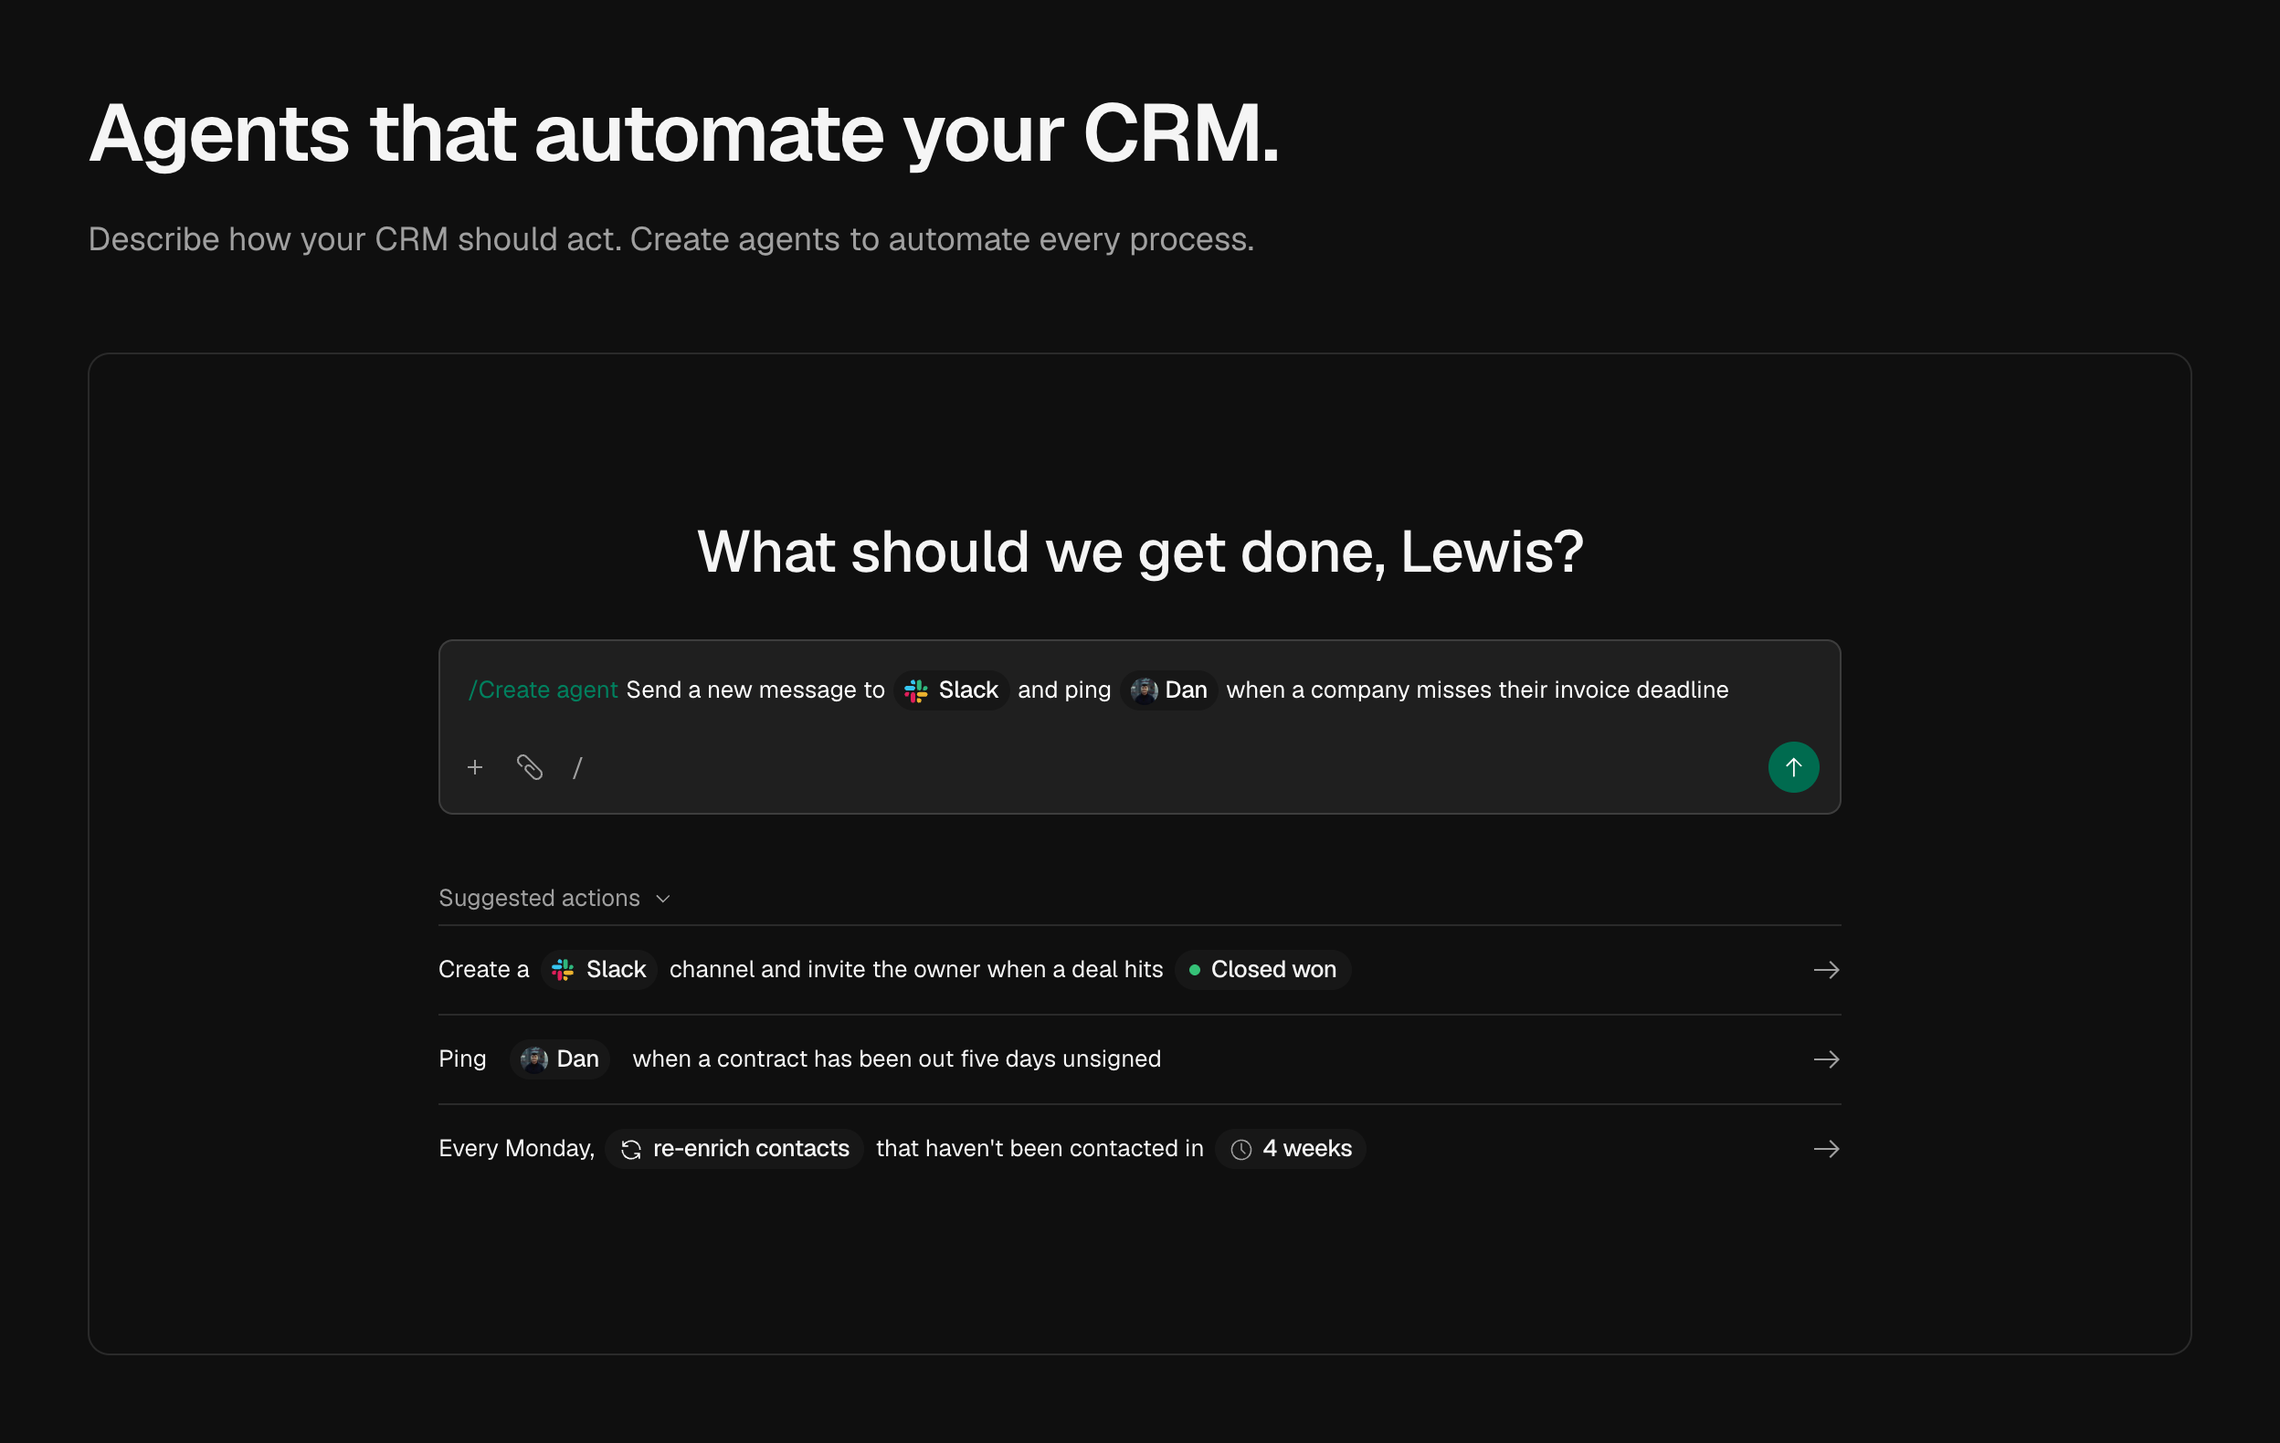
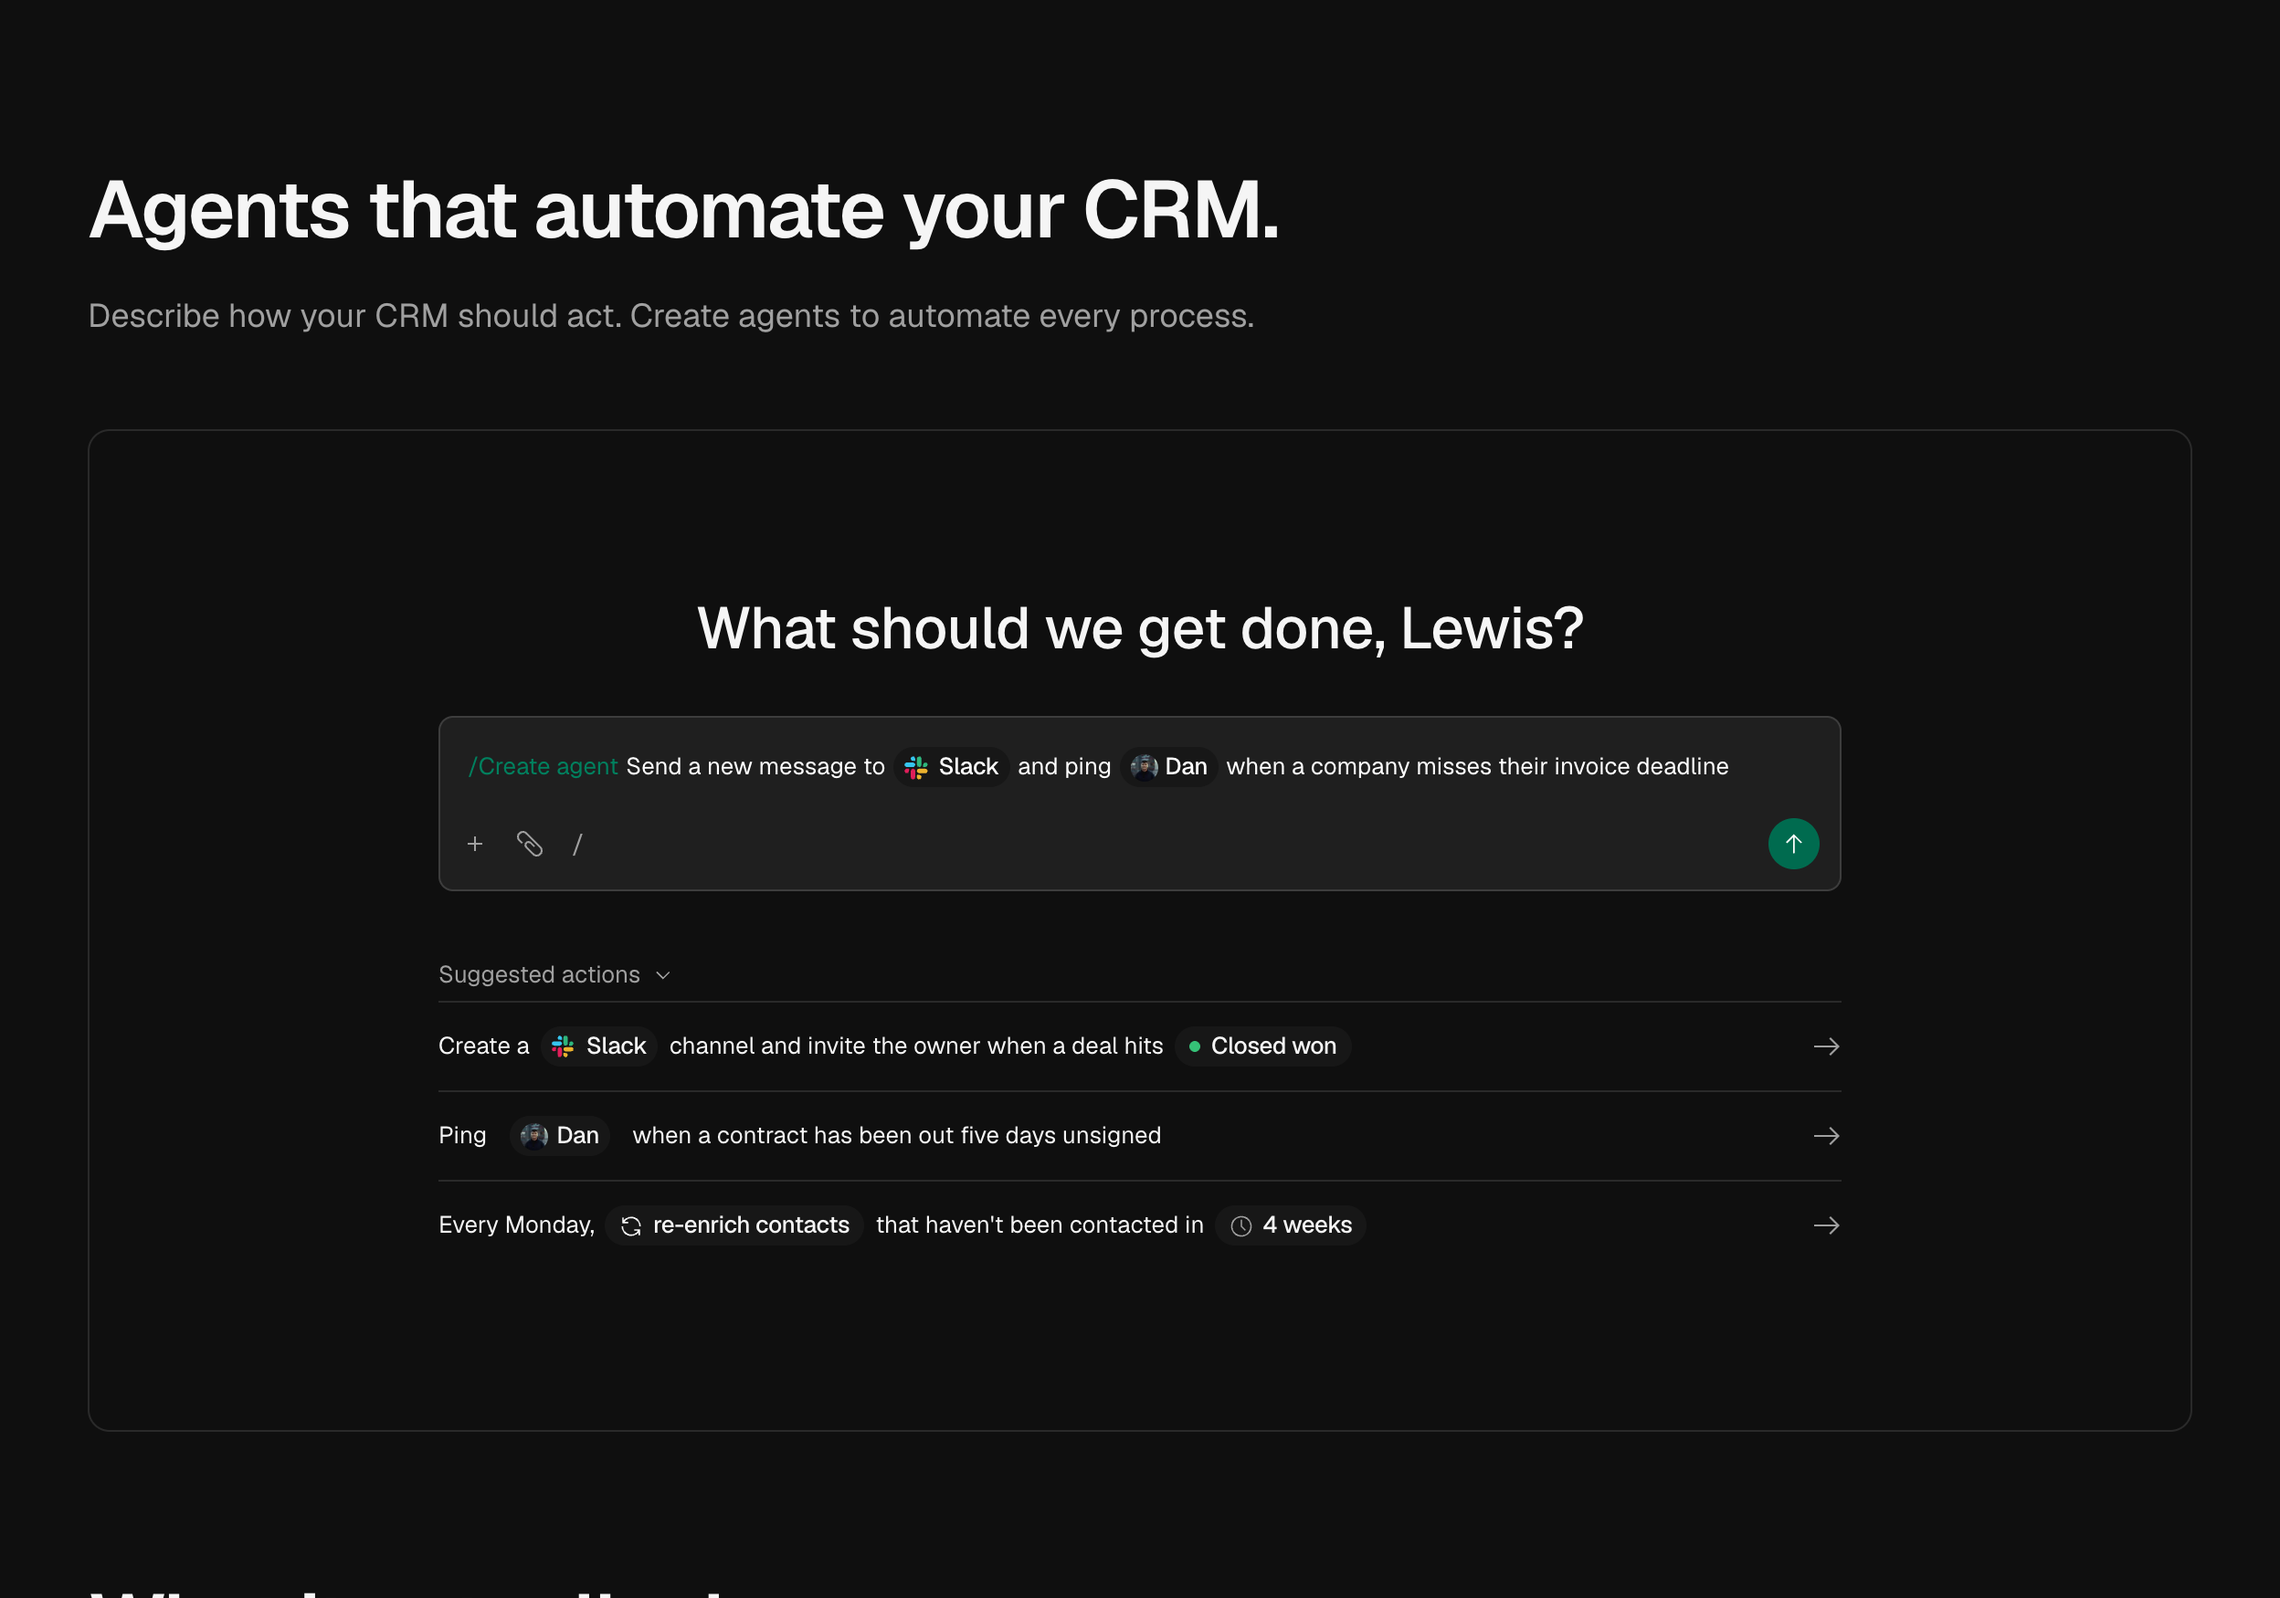
Update README and images for landing page
- Removed outdated captions from the README for agents and capabilities images to streamline content.
- Updated binary images for agents, capabilities, and hero sections to enhance visual quality on the landing page.

diff --git a/README.md b/README.md
@@ -66,11 +66,9 @@ because nobody can tell it is wrong.
   <tr>
     <td width="50%">
       <img alt="Agents that automate your CRM: a composer describing an agent in one sentence, with suggested actions beneath it" src="./docs/images/landing-agents.png">
-      <p align="center"><sub><b>Agents</b> — describe a process in a sentence and it runs on its own queue.</sub></p>
     </td>
     <td width="50%">
       <img alt="What it actually does: records fill themselves in, agents that build agents, it books its own follow-ups, and a question box on every record" src="./docs/images/landing-capabilities.png">
-      <p align="center"><sub><b>What it does</b> — enrichment that arrives on its own, and a question box on every record.</sub></p>
     </td>
   </tr>
 </table>
